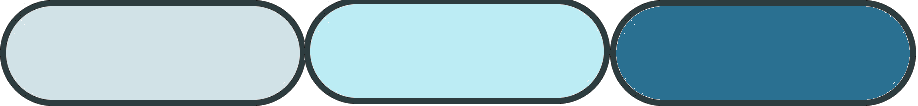
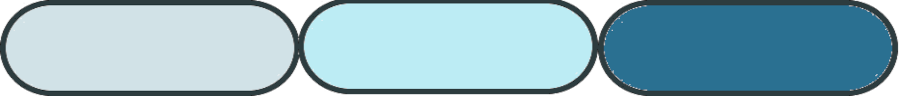
Added anti aliasing

Changed region(s): [[0.3733, 0.0312, 0.6222, 0.0625], [0.0311, 0.0312, 0.28, 0.0625], [0.0622, 0.9375, 0.28, 0.9688]]

diff --git a/Bubbles/Rendering.cpp b/Bubbles/Rendering.cpp
@@ -12,9 +12,12 @@
 Rendering::Rendering(const int a_X, const int a_Y, std::vector<std::unique_ptr<AnimatedSprite>>& a_Wrapper):
 	m_RenderedBubbles(a_Wrapper)
 {
+	sf::ContextSettings context;
+	context.antialiasingLevel = Settings::get().GetAaLevel();
 	m_Window = std::make_unique<sf::RenderWindow>(sf::VideoMode(a_X, a_Y), "Bubbles!",
-	                                              sf::Style::Titlebar | sf::Style::Close);
+	                                              sf::Style::Titlebar | sf::Style::Close, context);
 	m_Window->setSize(sf::Vector2u(a_X, a_Y));
+
 	LoadBackground();
 	LoadBubbleTextures();
 	CreatePointer();
@@ -46,11 +49,14 @@ void Rendering::MenuDraw() const
 	m_MenuButtons.at("High_Score")->DetectHover(mousePosition);
 	m_MenuButtons.at("Settings")->DetectHover(mousePosition);
 	m_MenuButtons.at("Exit")->DetectHover(mousePosition);
+	m_MenuButtons.at("How to play")->DetectHover(mousePosition);
 
 	m_Window->draw(*m_MenuButtons.at("Play"));
 	m_Window->draw(*m_MenuButtons.at("High_Score"));
 	m_Window->draw(*m_MenuButtons.at("Settings"));
 	m_Window->draw(*m_MenuButtons.at("Exit"));
+	m_Window->draw(*m_MenuButtons.at("How to play"));
+
 }
 
 void Rendering::GameOverAnimationDraw() const
@@ -240,7 +246,7 @@ void Rendering::LoadBubbleTextures()
 
 	for (auto& current : m_BubbleTextures)
 	{
-		current.second->setSmooth(true);
+		current.second->setSmooth(false);
 	}
 }
 
@@ -271,7 +277,7 @@ void Rendering::CreateTitleSprite()
 	m_Title->setTexture(m_TitleTexture.get());
 	m_Title->setSize(titleTextureSize);
 	m_Title->setOrigin(titleTextureSize.x / 2.f, titleTextureSize.y / 2.f);
-	sf::Vector2f basePos = sf::Vector2f(static_cast<float>(m_Window->getSize().x) / 2.f, static_cast<float>(m_Window->getSize().y) - (Settings::get().GetContainerHeight()*1.3f));
+	sf::Vector2f basePos = sf::Vector2f(static_cast<float>(m_Window->getSize().x) / 2.f, static_cast<float>(m_Window->getSize().y) - (Settings::get().GetContainerHeight()));
 	m_Title->setPosition(basePos);
 }
 
@@ -317,35 +323,47 @@ void Rendering::CreateMenuButtonSprites()
 
 	sf::Vector2f basePos = sf::Vector2f(m_Title->getPosition());
 	basePos.y += m_Title->getSize().y + 10;
+	basePos.x -= m_Title->getSize().x / 4;
 	m_BaseButtonTexture = std::make_unique<sf::Texture>();
 	m_BaseButtonTexture->loadFromFile(BUTTON_FILENAME);
-
 	m_MenuButtons = std::map<std::string, std::unique_ptr<Button>>();
 
 	std::unique_ptr<Button> newButton = std::make_unique<Button>(basePos,*m_Font, m_BaseButtonTexture.get());
 	newButton->SetText("Play");
-	newButton->ResizeCharacters(50);
-
+	newButton->ResizeCharacters(40);
+	newButton->SetScale(sf::Vector2f(0.85f, 0.85f));
 	m_MenuButtons.insert(m_MenuButtons.begin(),std::pair<std::string, std::unique_ptr<Button>>("Play", std::move(newButton)));
 
-	basePos.y += static_cast<float>(m_BaseButtonTexture->getSize().y) * 1.2f;
-	std::unique_ptr<Button> newButton1 = std::make_unique<Button>(basePos, *m_Font, m_BaseButtonTexture.get());
-	newButton1->SetText("High Scores");
-	newButton1->ResizeCharacters(50);
-	m_MenuButtons.insert(m_MenuButtons.begin(), std::pair<std::string, std::unique_ptr<Button>>("High_Score", std::move(newButton1)));
+	basePos.y += static_cast<float>(m_BaseButtonTexture->getSize().y) * 1.1f;
+	newButton = std::make_unique<Button>(basePos, *m_Font, m_BaseButtonTexture.get());
+	newButton->SetText("High Scores");
+	newButton->ResizeCharacters(40);
+	newButton->SetScale(sf::Vector2f(0.85f, 0.85f));
+	m_MenuButtons.insert(m_MenuButtons.begin(), std::pair<std::string, std::unique_ptr<Button>>("High_Score", std::move(newButton)));
 
-	basePos.y += static_cast<float>(m_BaseButtonTexture->getSize().y) * 1.2f;
-	std::unique_ptr<Button> newButton3 = std::make_unique<Button>(basePos, *m_Font, m_BaseButtonTexture.get());
-	newButton3->SetText("Settings");
-	newButton3->ResizeCharacters(50);
+	basePos.y += static_cast<float>(m_BaseButtonTexture->getSize().y) * 1.1f;
+	newButton = std::make_unique<Button>(basePos, *m_Font, m_BaseButtonTexture.get());
+	newButton->SetText("How to play");
+	newButton->ResizeCharacters(40);
+	newButton->SetScale(sf::Vector2f(0.85f, 0.85f));
+	m_MenuButtons.insert(m_MenuButtons.begin(), std::pair<std::string, std::unique_ptr<Button>>("How to play", std::move(newButton)));
 
-	m_MenuButtons.insert(m_MenuButtons.begin(), std::pair<std::string, std::unique_ptr<Button>>("Settings", std::move(newButton3)));
+	basePos.x += m_Title->getSize().x / 2;
+	basePos.y = m_Title->getPosition().y + m_Title->getSize().y + 10;
+	newButton = std::make_unique<Button>(basePos, *m_Font, m_BaseButtonTexture.get());
+	newButton->SetText("Settings");
+	newButton->ResizeCharacters(40);
+	newButton->SetScale(sf::Vector2f(0.85f, 0.85f));
+	m_MenuButtons.insert(m_MenuButtons.begin(), std::pair<std::string, std::unique_ptr<Button>>("Settings", std::move(newButton)));
 
-	basePos.y += static_cast<float>(m_BaseButtonTexture->getSize().y) * 1.2f;
-	std::unique_ptr<Button> newButton2 = std::make_unique<Button>(basePos, *m_Font, m_BaseButtonTexture.get());
-	newButton2->SetText("Exit");
-	newButton2->ResizeCharacters(50);
-	m_MenuButtons.insert(m_MenuButtons.begin(), std::pair<std::string, std::unique_ptr<Button>>("Exit", std::move(newButton2)));
+	basePos.y += static_cast<float>(m_BaseButtonTexture->getSize().y) * 1.1f;
+	newButton = std::make_unique<Button>(basePos, *m_Font, m_BaseButtonTexture.get());
+	newButton->SetText("Exit");
+	newButton->ResizeCharacters(40);
+	newButton->SetScale(sf::Vector2f(0.85f, 0.85f));
+	m_MenuButtons.insert(m_MenuButtons.begin(), std::pair<std::string, std::unique_ptr<Button>>("Exit", std::move(newButton)));
+
+
 
 	m_LoadingTexture = std::make_unique<sf::Texture>();
 	m_LoadingTexture->loadFromFile(LOADING_FILENAME);
@@ -407,9 +425,11 @@ void Rendering::CreateHighScoreSprites()
 		basePos.y += Settings::get().GetHighScoreItemHeight();
 	}
 
-	sf::Vector2f buttonTextureSize = sf::Vector2f(static_cast<float>(m_BaseButtonTexture->getSize().x), static_cast<float>(m_BaseButtonTexture->getSize().y));
+	float x = static_cast<float>(m_BaseButtonTexture->getSize().x);
+	sf::Vector2f buttonTextureSize = sf::Vector2f(x / 2, static_cast<float>(m_BaseButtonTexture->getSize().y));
 	sf::Vector2f buttonPos = sf::Vector2f(buttonTextureSize.x / 2, Settings::get().GetWindowHeight() - buttonTextureSize.y);
 	m_HSBackButton = std::make_unique<Button>(buttonPos, *m_Font, m_BaseButtonTexture.get());
 	m_HSBackButton->SetText("Back");
+	m_HSBackButton->ResizeCharacters(40);
 	m_HSBackButton->SetScale(sf::Vector2f(0.7f, 0.7f));
 }

diff --git a/Bubbles/BubbleGame.cpp b/Bubbles/BubbleGame.cpp
@@ -9,7 +9,7 @@
 
 void BubbleGame::Initialize()
 {
-	m_State = EGAME_STATE::STATE_GAME_OVER;
+	m_State = EGAME_STATE::STATE_MENU;
 	m_Wrapper = std::make_unique<BubbleWrapper>();
 	Settings::get().SetSoundEnabled(Settings::get().IsSoundEnabled());
 
@@ -54,7 +54,7 @@ void BubbleGame::RestartGame()
 	m_Physics->Reset();
 	m_Rendering->Reset();
 	m_Wrapper->Clear();
-	CallAfterDelay::getInstance().AddFunction([this]() { m_State = EGAME_STATE::STATE_LOADING; }, "SetLoadState", 0.2f, false);
+	CallAfterDelay::getInstance().AddFunction([this]() { m_State = EGAME_STATE::STATE_LOADING; }, "SetLoadState", 0.1f, false);
 	CallAfterDelay::getInstance().AddFunction([this]() { m_State = EGAME_STATE::STATE_PLAY; }, "SetPlayState", Settings::get().GetLoadTime(), false);
 }
 
@@ -80,7 +80,6 @@ void BubbleGame::Update()
 				sf::Vector2i size = static_cast<sf::Vector2i>(m_Rendering->GetSoundButton()->getTexture()->getSize());
 				int left = Audio::getInstance().IsAudioEnabled() ? 0 : size.x/2;
 				m_Rendering->GetSoundButton()->setTextureRect(sf::IntRect(left, 0, size.x /2, size.y));
-
 			}
 
 			if (m_State == EGAME_STATE::STATE_PLAY && event.type == sf::Event::KeyPressed && event.key.scancode == sf::Keyboard::Scan::Space)
@@ -190,12 +189,12 @@ void BubbleGame::MenuInput()
 	std::map<std::string, std::unique_ptr<Button>>& buttons = m_Rendering->GetMenuButtons();
 	if (buttons.at("Play")->DetectClick(mousePosition))
 	{
-		CallAfterDelay::getInstance().AddFunction([this]() { m_State = EGAME_STATE::STATE_LOADING; }, "SetLoadingState", 0.2f, false);
+		CallAfterDelay::getInstance().AddFunction([this]() { m_State = EGAME_STATE::STATE_LOADING; }, "SetLoadingState", 0.1f, false);
 		CallAfterDelay::getInstance().AddFunction([this]() { m_State = EGAME_STATE::STATE_PLAY; }, "SetPlayState", Settings::get().GetLoadTime(), false);
 	}
 	if (buttons.at("High_Score")->DetectClick(mousePosition))
 	{
-		CallAfterDelay::getInstance().AddFunction([this]() { m_State = EGAME_STATE::STATE_HIGH_SCORE; }, "SetHighScoreState", 0.5f, false);
+		CallAfterDelay::getInstance().AddFunction([this]() { m_State = EGAME_STATE::STATE_HIGH_SCORE; }, "SetHighScoreState", 0.1f, false);
 	}
 
 	if (buttons.at("Exit")->DetectClick(mousePosition))

diff --git a/Bubbles/Settings.h b/Bubbles/Settings.h
@@ -34,6 +34,8 @@ public:
     [[nodiscard]] float GetHighScoreItemWidth() const { return m_HighScoreItemWidth; }
     [[nodiscard]] float GetHighScoreItemHeight() const { return m_HighScoreItemHeight; }
 
+    int GetAaLevel() const { return m_AntiAliasingLevel; }
+
     [[nodiscard]] float BubbleSize(const EBUBBLE_TYPE a_Type) const { return m_BubbleSizes.at(a_Type); }
 
     [[nodiscard]] bool IsSoundEnabled() const { return m_SoundEnabled; }
@@ -62,7 +64,7 @@ private:
     float m_HighScoreItemWidth = 0;
     float m_HighScoreItemHeight = 0;
     bool m_SoundEnabled = true;
-
+    int m_AntiAliasingLevel = 0;;
 	std::map<EBUBBLE_TYPE, float> m_BubbleSizes;
 };
 

diff --git a/Bubbles/Button.cpp b/Bubbles/Button.cpp
@@ -38,7 +38,7 @@ bool Button::DetectClick(const sf::Vector2f& a_MousePosition)
 	{
 		Audio::getInstance().PlayClick();
 		m_Shape->setTextureRect(sf::IntRect(m_BaseBackGround->getSize().x / 3 * 2, 0, m_BaseBackGround->getSize().x / 3, m_BaseBackGround->getSize().y));
-		CallAfterDelay::getInstance().AddFunction([this]() { DisableClicked(); }, "DisableClicked", Settings::get().GetLoadTime() / 2.f, false);
+		CallAfterDelay::getInstance().AddFunction([this]() { DisableClicked(); }, "DisableClicked", 0.1f, false);
 
 		m_IsClicked = true;
 		return true;

diff --git a/Bubbles/Settings.cpp b/Bubbles/Settings.cpp
@@ -49,6 +49,8 @@ void Settings::LoadSettings()
                 m_BubbleAnimationTotalTime = stof(value);
             if (name == "SOUND_ENABLED")
                 m_SoundEnabled = stoi(value);
+            if (name == "ANTI_ALIASING")
+                m_AntiAliasingLevel = stoi(value);
         }
         file.close();
     }

diff --git a/Bubbles/main.cpp b/Bubbles/main.cpp
@@ -1,7 +1,7 @@
 #include "Audio.h"
 #include "BubbleGame.h"
 
-int main()
+int WinMain()
 {
     Settings::get().LoadSettings();
     Audio::getInstance().Initialize();
